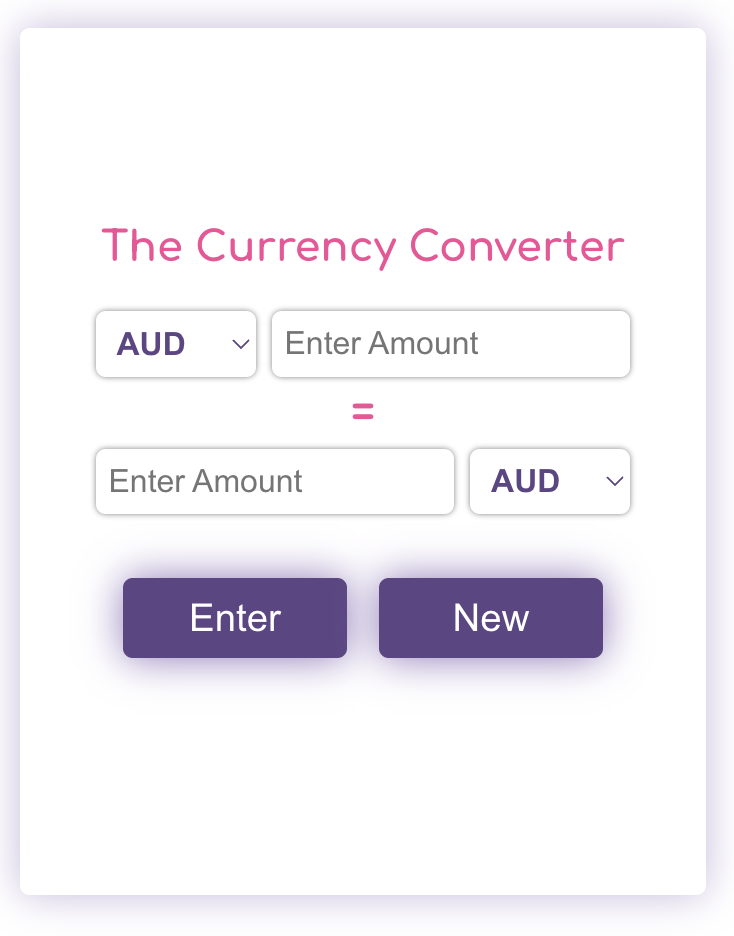
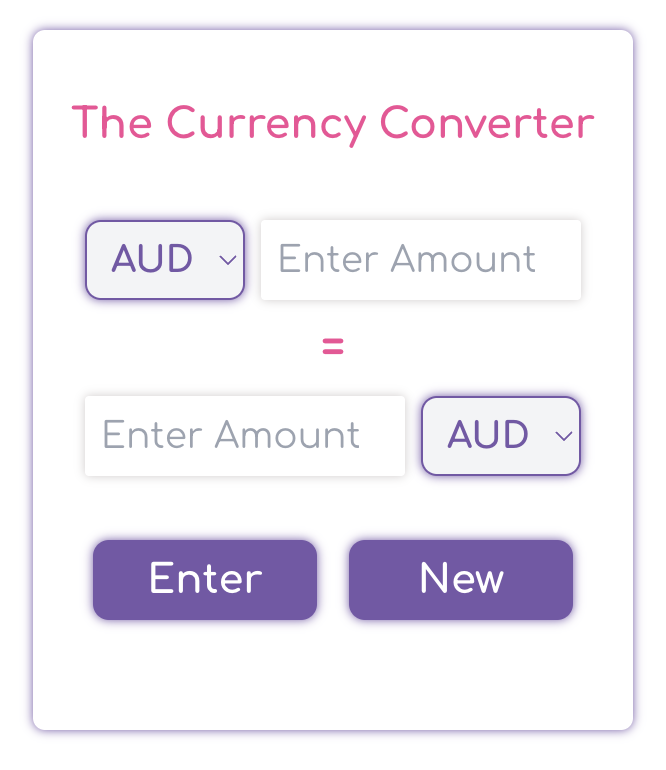
Complete Project

diff --git a/src/CurrencyConverterApp.jsx b/src/CurrencyConverterApp.jsx
@@ -53,16 +53,16 @@ function CurrencyConverterApp() {
       <form
         action="#"
         onSubmit={handleEnter}
-        className="w-[80%] min-w-[415px] max-w-[1000px] my-16 mx-auto h-[50vh] rounded-md shadow-md shadow-forth flex flex-col  items-center"
+        className="w-[300px] my-16 mx-auto h-[350px] rounded-md shadow-all flex flex-col  items-center"
       >
-        <h1 className="text-[1.3rem] whitespace-nowrap font-bold text-primary mb-6 mt-12">
+        <h1 className="text-[1.3rem] whitespace-nowrap font-bold text-primary my-8">
           The Currency Converter
         </h1>
         {keys && (
           <div className="flex gap-2">
             <select
               ref={topCountryRef}
-              className="rounded-lg p-2 outline-forth text-lg border border-forth w-20 text-forth bg-gray-100 font-bold"
+              className="rounded-lg p-2 outline-forth text-lg border border-forth w-20 text-forth bg-gray-100 font-bold shadow-all"
             >
               {keys.map((key) => (
                 <option value={key} key={key}>
@@ -72,7 +72,7 @@ function CurrencyConverterApp() {
             </select>
             <input
               type="number"
-              className="py-1 px-2 outline-forth text-forth text-lg rounded-sm shadow-md"
+              className="py-1 px-2 outline-forth text-forth text-lg rounded-sm shadow-allGray w-[10rem]"
               placeholder="Enter Amount"
               onChange={(e) => setTopValue(e.target.value)}
               value={topValue}
@@ -84,7 +84,7 @@ function CurrencyConverterApp() {
           <div className="flex gap-2 flex-row-reverse">
             <select
               ref={bottomCountryRef}
-              className="rounded-lg p-2 outline-forth text-lg border border-forth w-20 text-forth bg-gray-100 font-bold"
+              className="rounded-lg p-2 outline-forth text-lg border border-forth w-20 text-forth bg-gray-100 font-bold shadow-all"
             >
               {keys.map((key) => (
                 <option value={key} key={key}>
@@ -94,7 +94,7 @@ function CurrencyConverterApp() {
             </select>
             <input
               type="number"
-              className="px-2 py-1 outline-forth text-forth text-lg rounded-sm shadow-md"
+              className="px-2 py-1 outline-forth text-forth text-lg rounded-sm shadow-allGray w-[10rem]"
               placeholder="Enter Amount"
               onChange={(e) => setBottomValue(e.target.value)}
               value={bottomValue}
@@ -104,13 +104,13 @@ function CurrencyConverterApp() {
         <div>
           <button
             type="submit"
-            className="mt-8 mb-6 mx-2 w-32 h-10 rounded-lg border-none text-xl bg-forth text-white shadow-sm shadow-forth transition-transform hover:scale-105 active:scale-95 font-bold"
+            className="shadow-all mt-8 mb-6 mx-2 w-28 h-10 rounded-lg border-none text-xl bg-forth text-white transition-transform hover:scale-105 active:scale-95 font-bold"
           >
             Enter
           </button>
           <button
             type="button"
-            className="mt-8 mb-6 mx-2 w-32 h-10 rounded-lg border-none text-xl bg-forth text-white shadow-sm shadow-forth transition-transform hover:scale-105 ctive:scale-95 font-bold"
+            className="mt-8 mb-6 mx-2 w-28 h-10 rounded-lg border-none text-xl bg-forth text-white shadow-all transition-transform hover:scale-105 ctive:scale-95 font-bold"
             onClick={() => {
               setBottomValue("", setTopValue(""), setShowNotification(false))
             }}

diff --git a/tailwind.config.js b/tailwind.config.js
@@ -10,6 +10,10 @@ module.exports = {
         third: "hsl(299, 96%, 48%)",
         forth: "	hsl(265, 33%, 49%)",
       },
+      boxShadow: {
+        all: "0 0 5px hsl(265, 33%, 49%)",
+        allGray: "0 0 5px hsl(0, 3%, 80%)",
+      },
     },
   },
   plugins: [],
